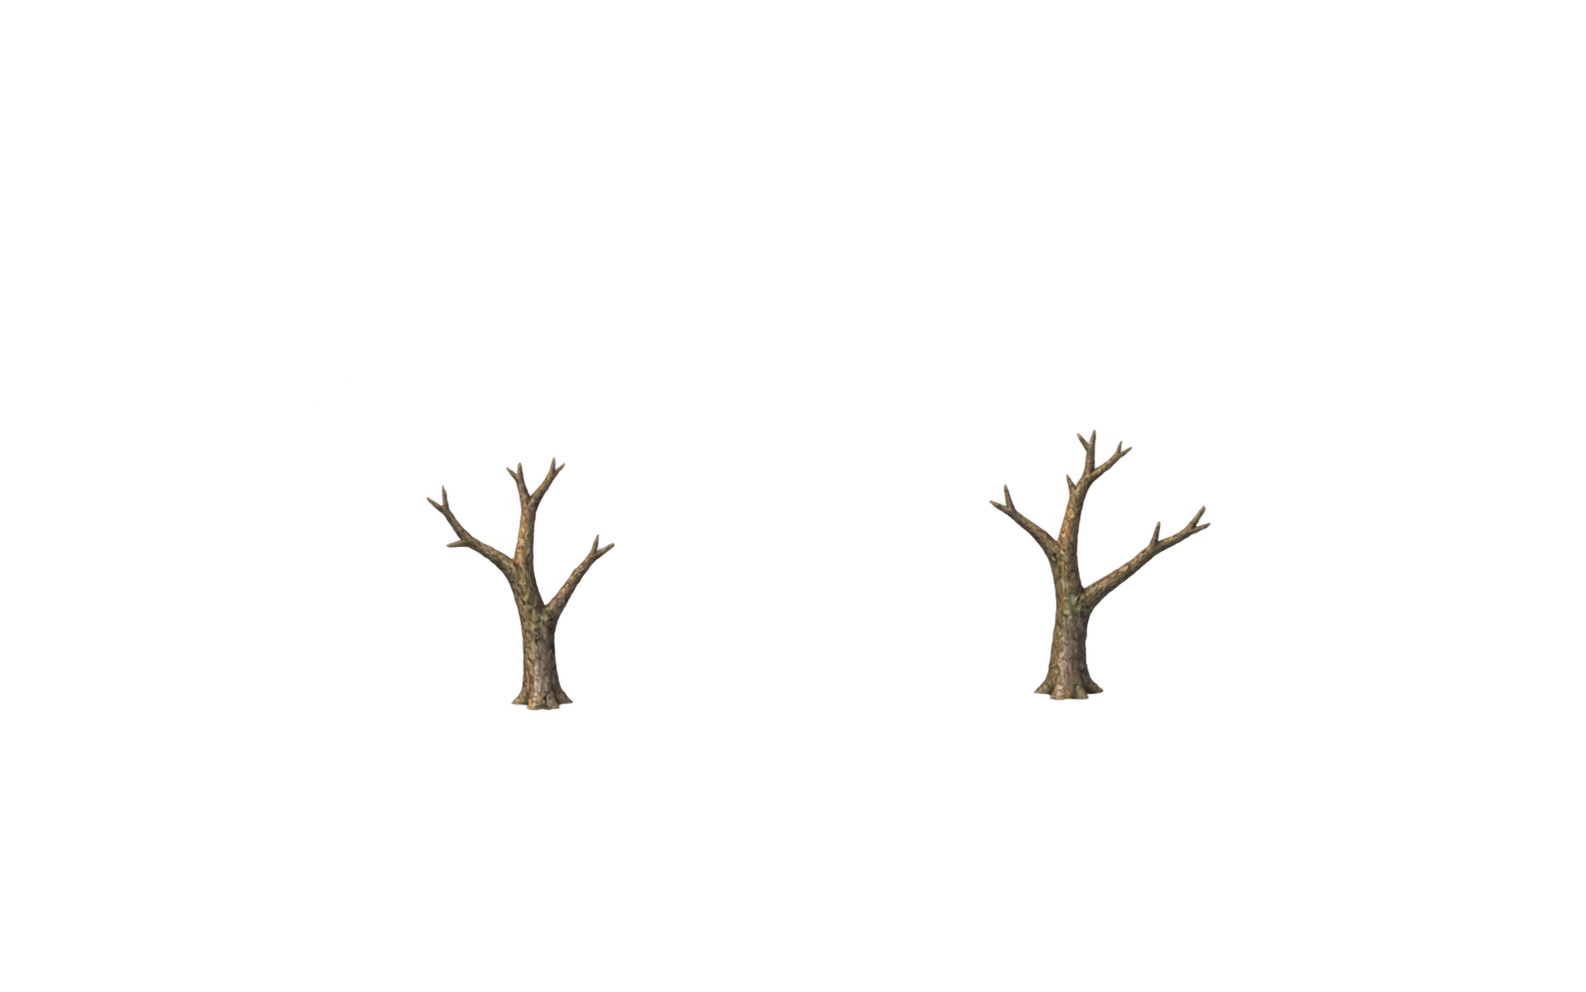
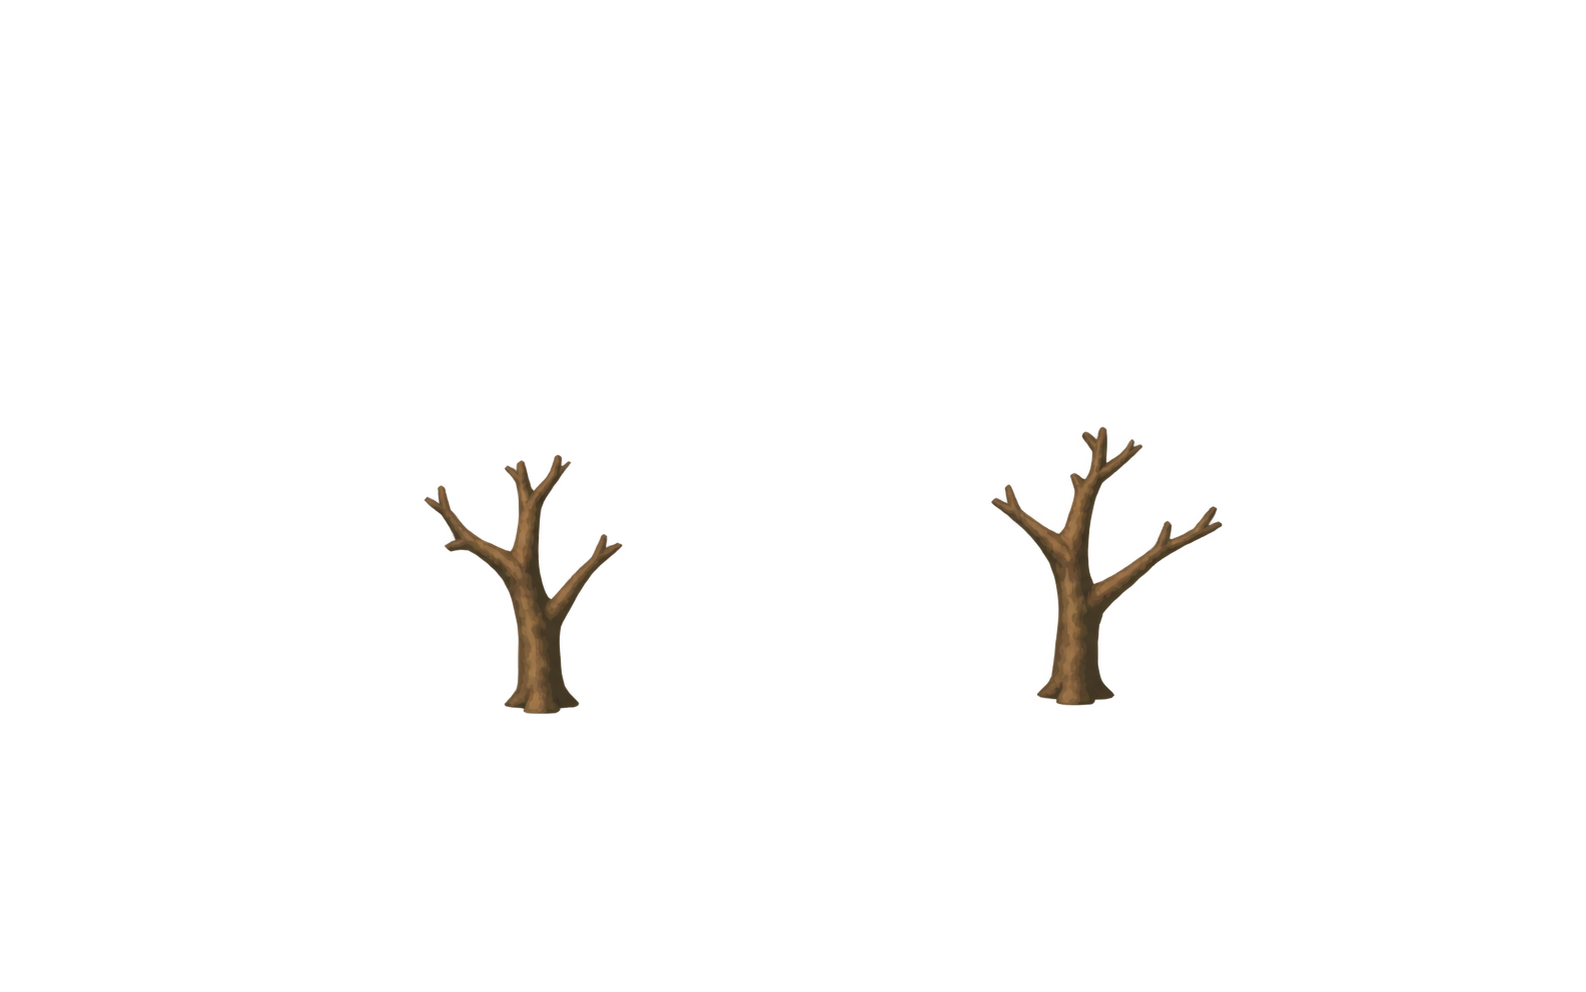
Refine Chaoyang trunk artwork and handle logical arrow keys

Changed region(s): [[0.6179, 0.4375, 0.7724, 0.7188], [0.2781, 0.4688, 0.4016, 0.7188]]

diff --git a/godot_native/docs/BUCT_LAYERED_PILOT.md b/godot_native/docs/BUCT_LAYERED_PILOT.md
@@ -36,3 +36,13 @@ node godot_native/tools/validate_native.mjs
 Both runners use fresh isolated user-data directories. The save-writing entry fixture refuses undeclared, mismatched, unsupported-platform or preexisting-save locations. The new actual-art test checks PNG hashes/alpha, per-object independence, crown reset, selection, collision, real guided movement and lifecycle cleanup. The entry test covers both BUCT scenes, desktop/compact layouts, pointer/touch controls, repeated return, original story continuation and exact save-byte preservation.
 
 The upstream regional source passed actual-renderer front/back occlusion and manual selection/reset checks. Integrated GUI and exact-head CI results are recorded in the Draft PR, separately from headless tests. No physical-phone or Web-export verification is implied.
+
+## Warm-brown trunk revision (stacked follow-up)
+
+The follow-up tree-style branch is based on #120 at `61303c6c`. The art change replaces the two-trunk PNG, its measured atlas registration and provenance. The new v3 painting uses warm brown masses in place of fine gray bark. Roots `(87,124)` / `(165,122)`, crown hinges `(87,114)` / `(165,112)`, 2.2-unit foot colliders, crowns, continuous ground, shadows, routes and story/save state remain unchanged. #121's student artwork is an independent stacked change and is not duplicated here.
+
+The original PNG remains true RGBA. Its 6749 near-zero-alpha pixels are discarded by the existing `alpha < 0.04` runtime shader; no checkerboard removal or raster repaint is applied. Simplified branching and slightly broad root silhouettes remain art limitations. The isolated source passed 50 component checks, 1198 route checks and an actual 240-frame same-camera comparison. The integrated focused runner passed with exit 0: 434 real-art/physics/input/lifecycle checks, 782 entry/save/layout checks, 269 source-layer checks and 101 full-campus checks, plus 11 save-guard and four platform rejections. Two actual desktop entry/return cycles verified art, selection, crown animation, fixed roots and pointer controls. Exact-head aggregate CI is recorded in the Draft PR; the focused local run is not described as a full aggregate run.
+
+Desktop review also exposed a pre-existing input boundary: arrow events with only logical `keycode` were ignored by the physical-only pilot bindings. The pilot now accepts both logical and physical arrow events while retaining physical WASD. The regression exercises all four arrows in three event forms with and without a focused reset button (24 combinations), including movement and release-to-stop. Existing actions, reset, focus-loss and exit cleanup remain covered.
+
+The corrected build also passed actual desktop arrow review: Right moved after blank-grass selection and after Reset retained focus; Left/Up/Down moved in the expected direction. Every release stopped the visitor. Normal exit logged no script errors or resource leaks (only the driver’s unsupported VSync warning).

diff --git a/progress.md b/progress.md
@@ -4554,3 +4554,12 @@ Proposed source/test/document union: 75 paths. The 35 import-generated UID compa
 - Imported only the four accepted, unchanged PNGs: repaired ground, two actual-alpha crowns, restored trunks/branches and translucent ground shadows. Each tree has a separate crown hinge, fixed trunk, independent shadow and small native feet collider. Measured region/world registration replaces the generator's shifted placement; surrounding vegetation remains background context. No source-pixel equality or whole-campus completion claim.
 - Added responsive return/guide/selection/crown/wind/reset controls and held pointer/touch direction buttons, with release-outside and focus-loss cleanup. All inputs are namespaced and no State/save writes or global window scaling enter the runtime. The same safe isolated test runner covers both BUCT scenes.
 - Focused native checks passed: 380 real-asset/component/physics/lifecycle assertions and 782 chooser/save/pointer/touch/compact-layout assertions, alongside the preserved 269 source-layer and 101 full-campus checks. The actual-art route completed in 431 physics ticks. Upstream source renderer/manual checks passed; integrated desktop review and exact-head aggregate/CI are tracked in the stacked Draft PR. Videos, capture probes, synthetic art fixtures, caches and rejected generations are excluded.
+
+
+## 2026-10-12 — Chaoyang two-tree warm-brown trunk correction
+
+- Follow-up to #120, preserving its branch and the independent #121 character work. Replaced only the accepted two-trunk PNG with the source-guided v3 warm brown painting and re-registered both atlas regions to the same root and crown anchors.
+- Kept continuous ground, canopy, shadow, feet collision, guide geometry and story/save behavior unchanged. Runtime alpha-threshold cleanup uses the existing shader and does not alter the accepted original PNG bytes.
+- Extended the actual-art regression with fixed original root, hinge and radius expectations. Isolated-source 50 component and 1198 route checks and same-camera native render passed. Integrated focused runner passed with exit 0: 434 real-art/physics/input/lifecycle, 782 entry/save/layout, 269 source-layer and 101 full-campus checks, plus 11 save-guard and four platform rejections. Actual desktop art and two entry/return cycles passed; exact-head full CI is recorded separately.
+- Fixed the pilot arrow binding found during actual GUI review: logical keycode-only arrows now work alongside the preserved physical arrows/WASD. Added 24 real InputEventKey combinations covering four arrows, logical/physical/both event forms, focused/unfocused UI, and release-to-stop. No global input or story state was changed.
+- Final actual desktop review passed logical arrows after blank-grass and Reset focus, all four directions and release-to-stop; normal exit had no errors/resource leaks (known VSync driver warning only).
